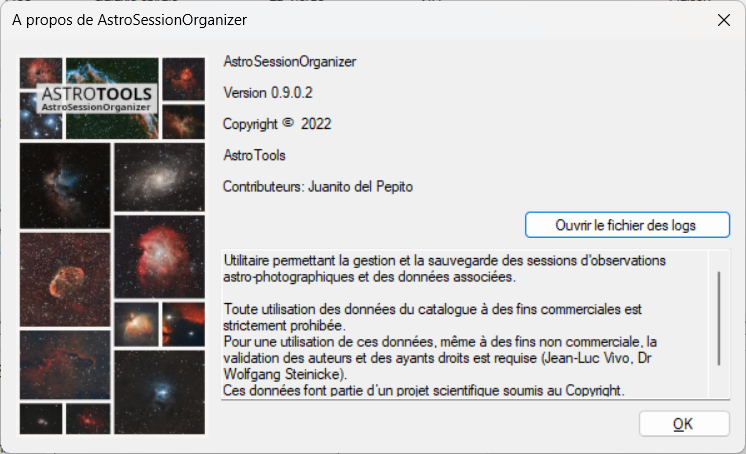
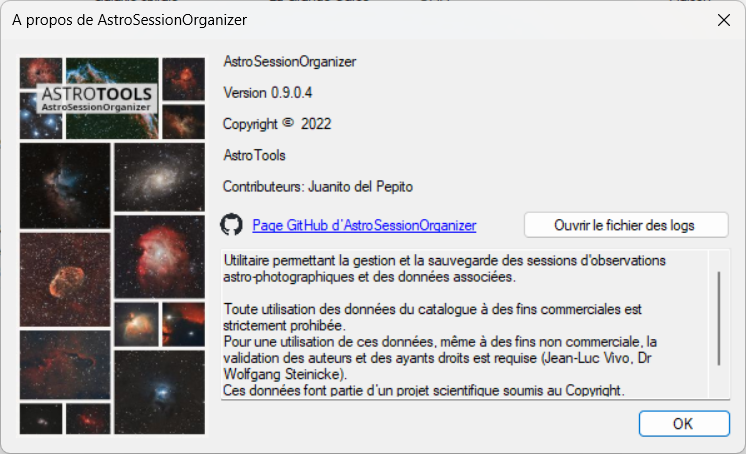
README : capture de la boîte À propos (0.9.0.4) et lien GitHub

diff --git a/README.md b/README.md
@@ -133,7 +133,8 @@ Cette action permet d'ouvrir la boîte de dialogue ***A Propos***.
 ![Boîte de dialogue A Propos](images/BoiteDeDialogue_APropos.png)
 
 Cette boîte de dialogue permet d'afficher les informations à propos du logiciel ***AstroSessionOrganizer*** (***ASO***).\
-Il est également possible, via le bouton présent, d'ouvrir le fichier des logs de l'application.
+Il est également possible, via le bouton présent, d'ouvrir le fichier des logs de l'application.\
+Le lien **Page GitHub d'AstroSessionOrganizer** ouvre cette page dans votre navigateur : vous y trouverez la dernière version et les nouveautés.
 
 <p align="right"><a href="#sommaire">Retour au sommaire</a></p>
 
